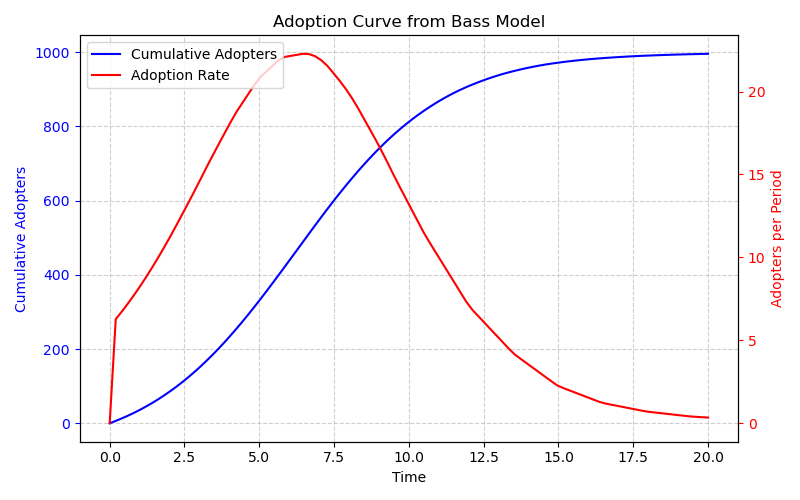
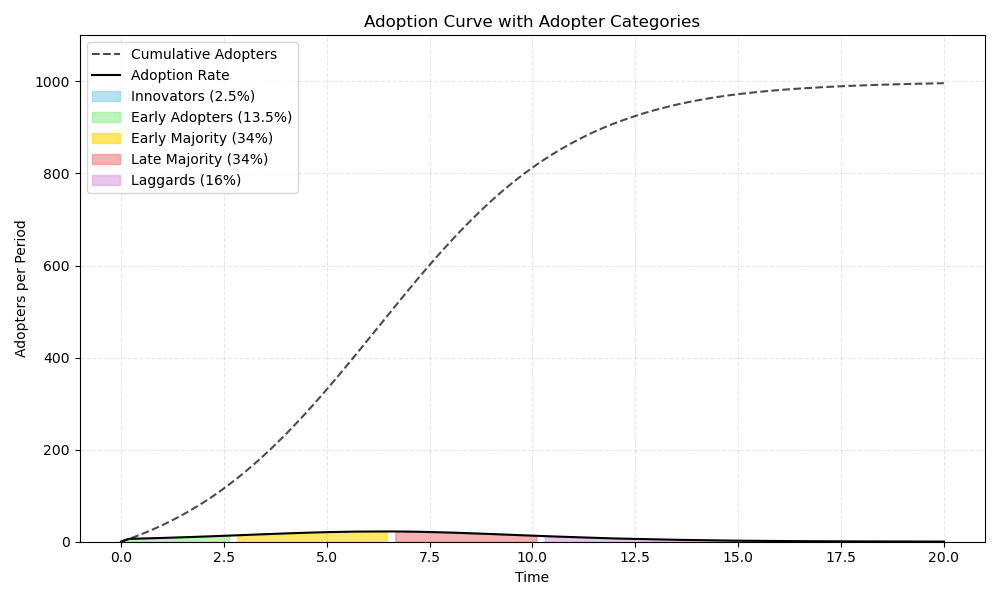
feat: Visualize adopter categories and update roadmap
- Updates the adoption curve plot to visualize adopter categories (Innovators, Early Adopters, etc.).
- Adds a new section to the roadmap for future work on adopter category analysis.

diff --git a/examples/generate_readme_plots.py b/examples/generate_readme_plots.py
@@ -231,33 +231,99 @@ plt.tight_layout()
 plt.savefig(os.path.join(SAVE_DIR, "multi_product_diffusion.png"))
 plt.close()
 
-# --- 10. Adoption Curve ---
-print("Generating Adoption Curve plot...")
+# --- 10. Adoption Curve with Categories ---
+print("Generating Adoption Curve plot with categories...")
 # Use the Bass model results from before
 adoption_rate = np.diff(y_bass, prepend=0)
 
-fig, ax1 = plt.subplots(figsize=(8, 5))
+# Find the peak adoption time (mean) and standard deviation
+peak_time_idx = np.argmax(adoption_rate)
+peak_time = t[peak_time_idx]
+
+# Approximate standard deviation assuming the curve is roughly normal
+# This is a simplification for visualization purposes
+cumulative_adoption = y_bass / m
+# Find time to 16% and 84% adoption
+t_16 = t[np.argmin(np.abs(cumulative_adoption - 0.16))]
+t_84 = t[np.argmin(np.abs(cumulative_adoption - 0.84))]
+std_dev_approx = (t_84 - t_16) / 2
+
+# Define category boundaries based on standard deviations from the peak
+innovators_end = peak_time - 2 * std_dev_approx
+early_adopters_end = peak_time - 1 * std_dev_approx
+early_majority_end = peak_time
+late_majority_end = peak_time + 1 * std_dev_approx
+
+fig, ax1 = plt.subplots(figsize=(10, 6))
 
 # Plot Cumulative Adopters
-ax1.plot(t, y_bass, "b-", label="Cumulative Adopters")
+ax1.plot(t, y_bass, "k--", label="Cumulative Adopters", alpha=0.7)
 ax1.set_xlabel("Time")
-ax1.set_ylabel("Cumulative Adopters", color="b")
-ax1.tick_params("y", colors="b")
-ax1.grid(True, linestyle="--", alpha=0.6)
+ax1.set_ylabel("Cumulative Adopters")
+ax1.grid(True, linestyle="--", alpha=0.3)
+ax1.set_ylim(0, m * 1.1)
 
-# Plot Adoption Rate on a secondary y-axis
-ax2 = ax1.twinx()
-ax2.plot(t, adoption_rate, "r-", label="Adoption Rate")
-ax2.set_ylabel("Adopters per Period", color="r")
-ax2.tick_params("y", colors="r")
+# Plot Adoption Rate on the same y-axis for shading
+ax2 = ax1
+ax2.plot(t, adoption_rate, "k-", label="Adoption Rate")
+ax2.set_ylabel("Adopters per Period")
+
+# Shade the adopter categories
+ax2.fill_between(
+    t,
+    adoption_rate,
+    where=(t <= innovators_end),
+    color="skyblue",
+    alpha=0.6,
+    label="Innovators (2.5%)",
+)
+ax2.fill_between(
+    t,
+    adoption_rate,
+    where=(t > innovators_end) & (t <= early_adopters_end),
+    color="lightgreen",
+    alpha=0.6,
+    label="Early Adopters (13.5%)",
+)
+ax2.fill_between(
+    t,
+    adoption_rate,
+    where=(t > early_adopters_end) & (t <= early_majority_end),
+    color="gold",
+    alpha=0.6,
+    label="Early Majority (34%)",
+)
+ax2.fill_between(
+    t,
+    adoption_rate,
+    where=(t > early_majority_end) & (t <= late_majority_end),
+    color="lightcoral",
+    alpha=0.6,
+    label="Late Majority (34%)",
+)
+ax2.fill_between(
+    t,
+    adoption_rate,
+    where=(t > late_majority_end),
+    color="plum",
+    alpha=0.6,
+    label="Laggards (16%)",
+)
 
 # Add a title and legend
-plt.title("Adoption Curve from Bass Model")
+plt.title("Adoption Curve with Adopter Categories")
 fig.tight_layout()
-# Combine legends
-lines, labels = ax1.get_legend_handles_labels()
-lines2, labels2 = ax2.get_legend_handles_labels()
-ax2.legend(lines + lines2, labels + labels2, loc="upper left")
+# Create a single legend for all plots
+handles, labels = [], []
+for ax in [ax1, ax2]:
+    for h, l in zip(*ax.get_legend_handles_labels()):
+        handles.append(h)
+        labels.append(l)
+# Remove duplicate labels
+from collections import OrderedDict
+by_label = OrderedDict(zip(labels, handles))
+plt.legend(by_label.values(), by_label.keys(), loc="upper left")
+
 plt.savefig(os.path.join(SAVE_DIR, "adoption_curve.png"))
 plt.close()
 

diff --git a/documents/roadmap.md b/documents/roadmap.md
@@ -172,5 +172,13 @@ The following phases are planned for future releases and are not part of the cur
 2.  **Dynamic Parameter Models**:
     *   Create a `DynamicBassModel` (and similar models for other diffusion curves) where the innovation and imitation parameters (`p` and `q`) can be arbitrary functions of time or external variables (e.g., advertising spend). This will provide a flexible way to model the impact of marketing and policy drivers.
 
+## Phase 16: Adopter Category Analysis
+
+**Goal**: Provide tools for analyzing and visualizing adopter segments.
+1.  **Adopter Category Visualization**:
+    *   Add a boolean flag to the plotting functions to allow users to toggle the display of adopter categories (Innovators, Early Adopters, etc.) on the adoption curve plot.
+2.  **Category Information Access**:
+    *   Implement a function to return the time points or indices corresponding to the boundaries of each adopter category, allowing for programmatic access to information such as the time to reach the Early Majority.
+
 ---
 This roadmap provides a clear path forward, balancing the implementation of core, requested features with a vision for a sophisticated and versatile modeling tool.
